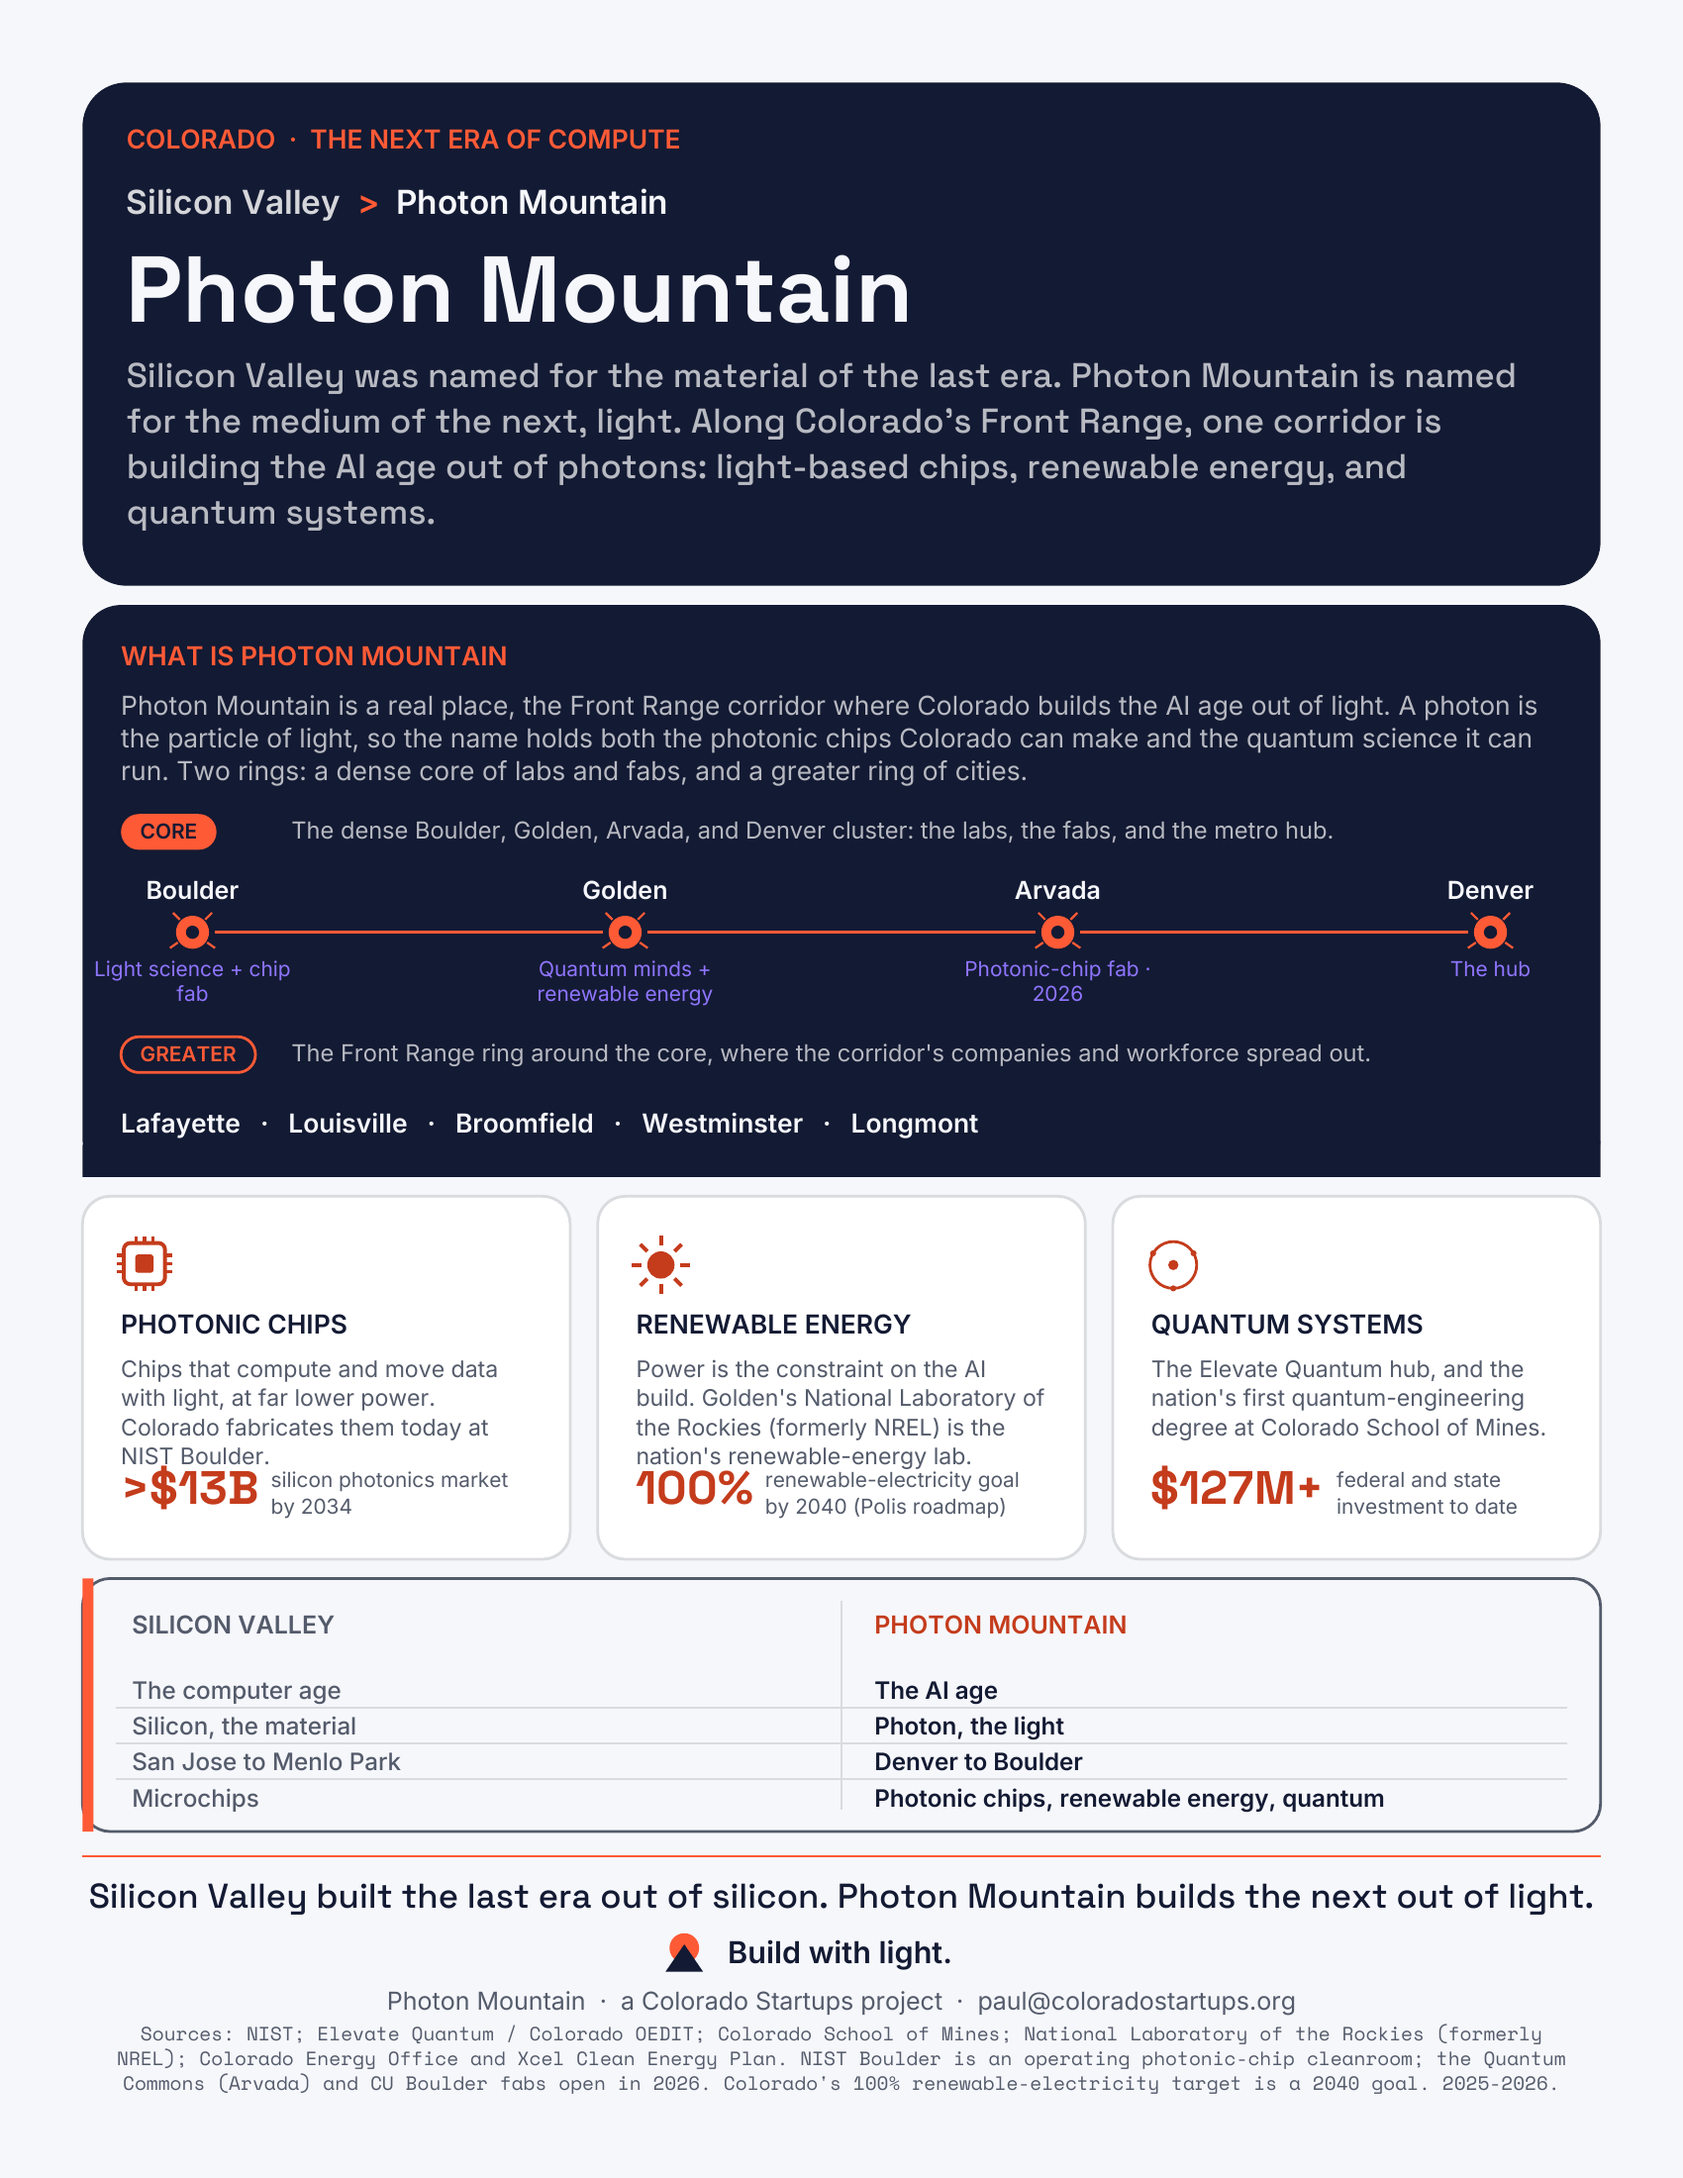
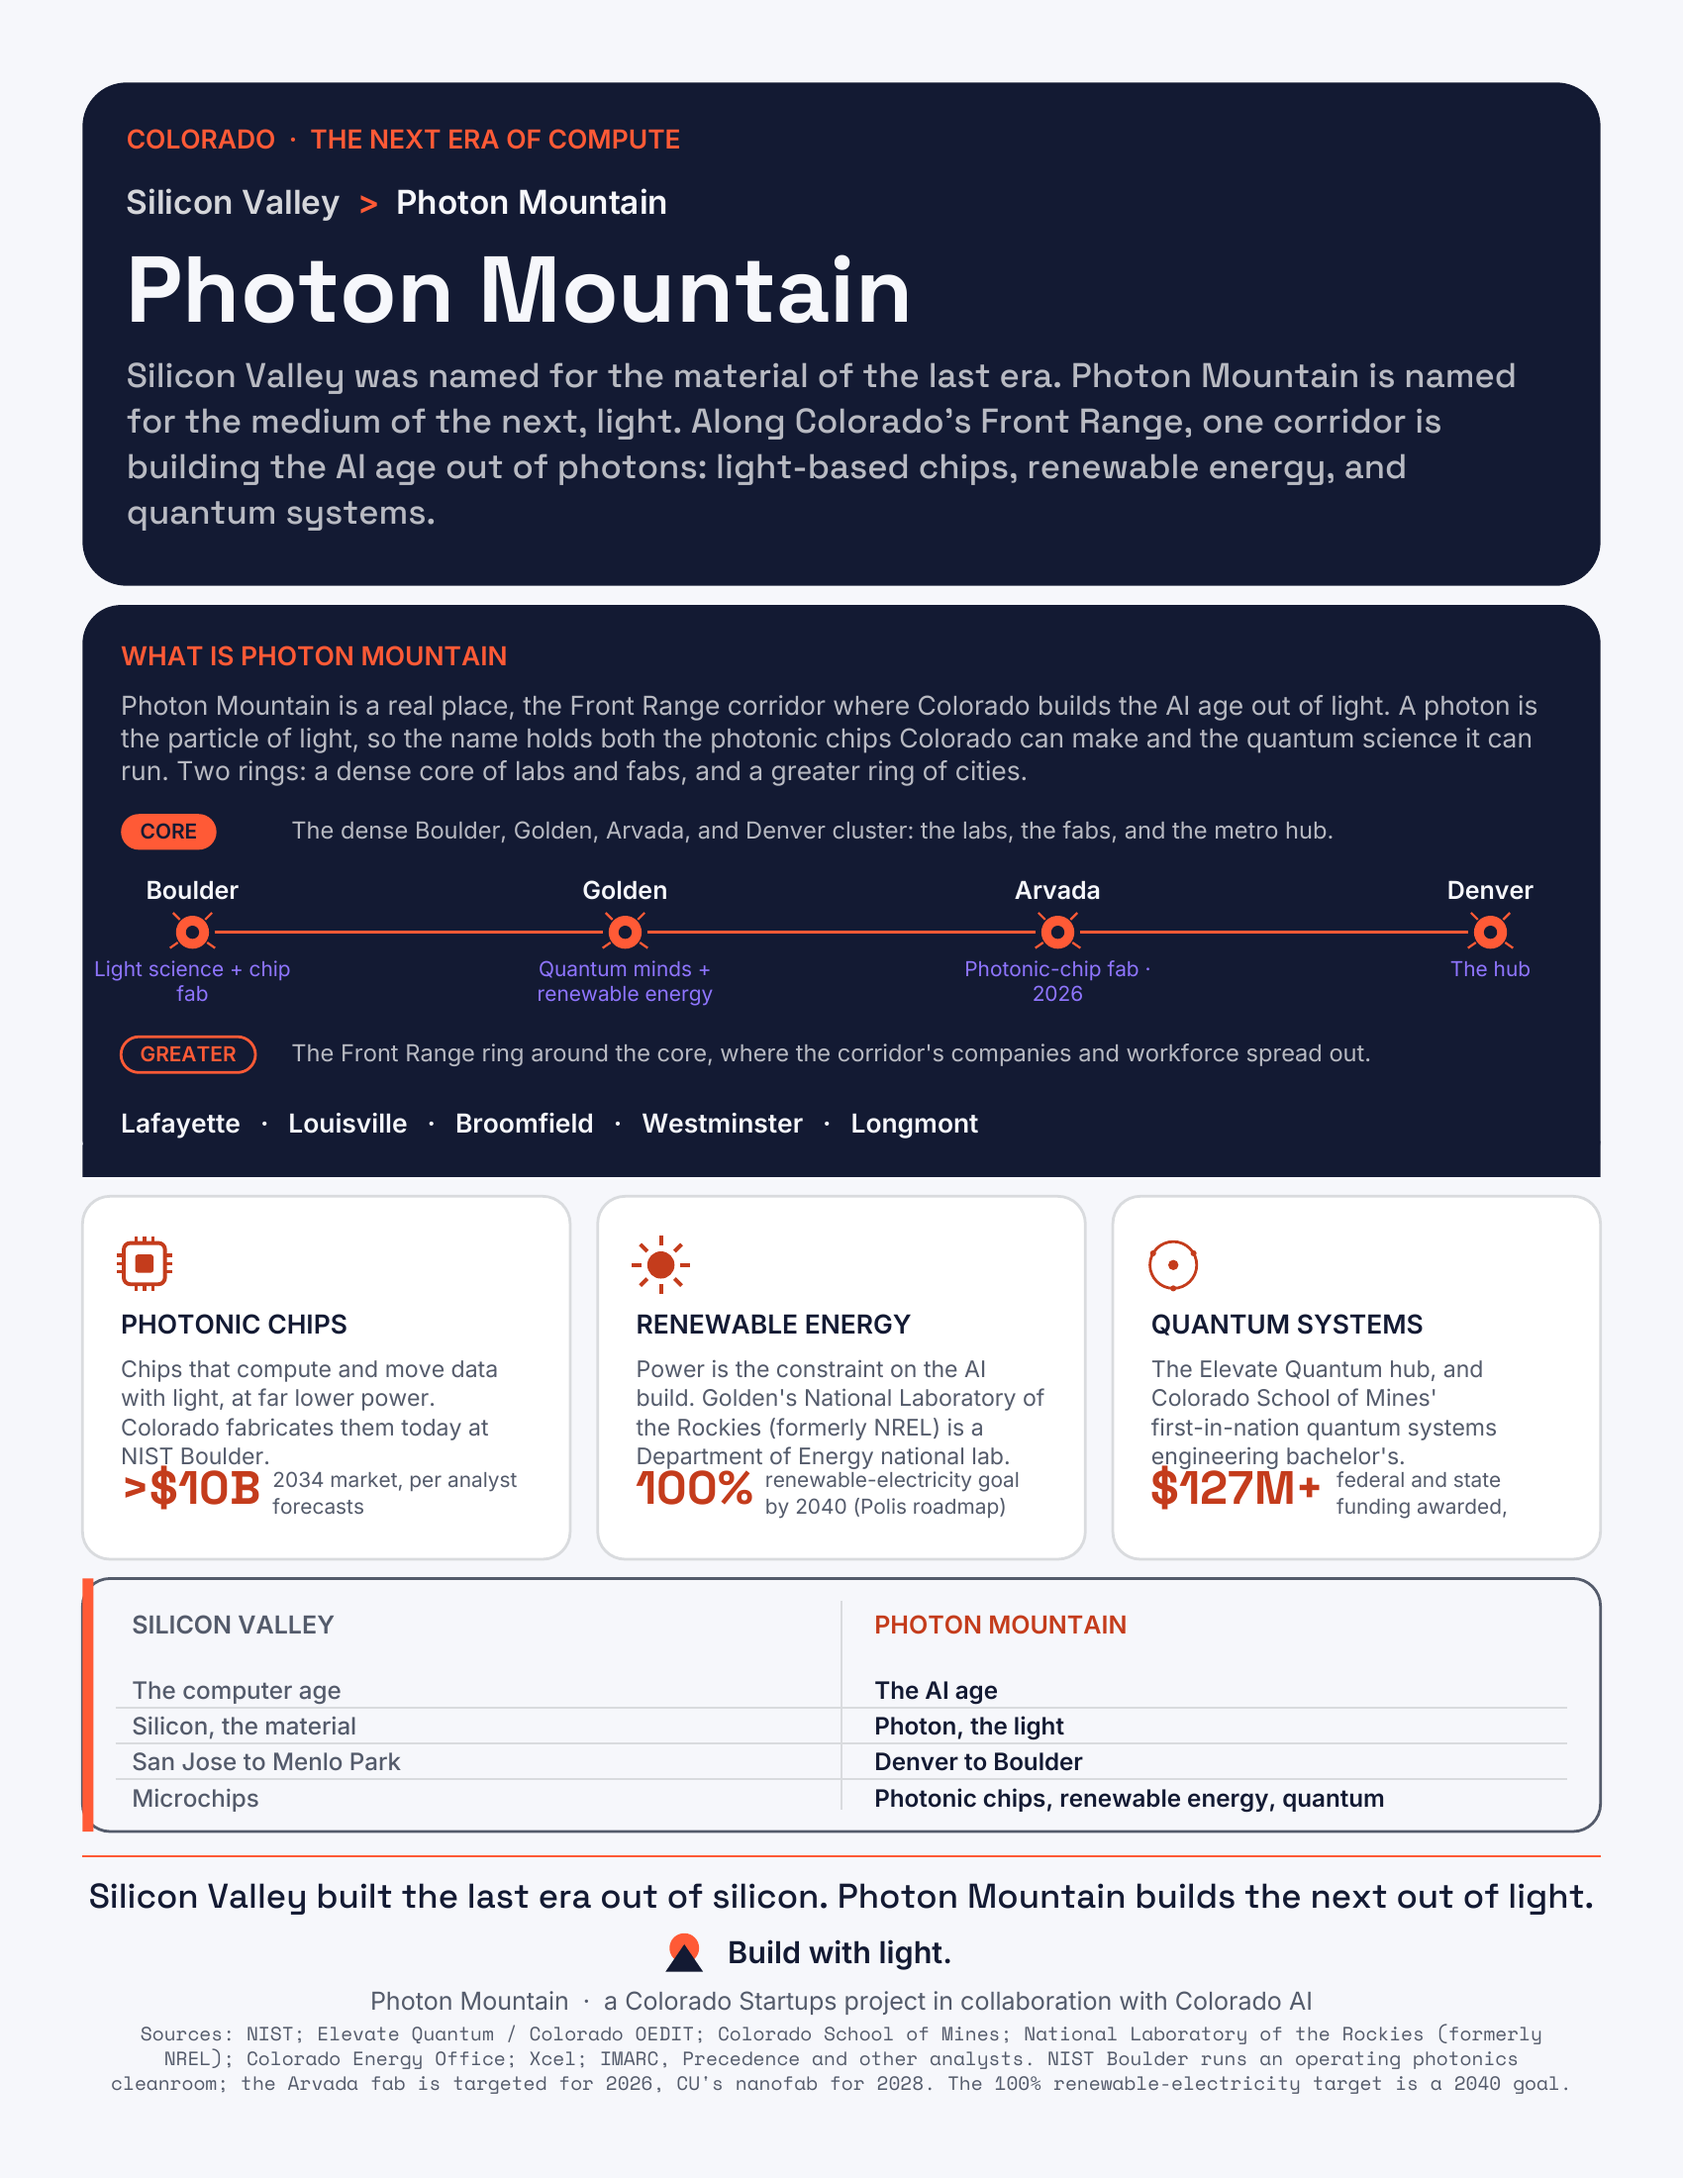
Re-render the launch infographic and the vision page in the cloud
render:infographic-png (run 43301756618): PAGES 1, brand_fonts= True,
OVERFLOW none. render:vision (run 43301262997): check: PASS, 53 sites.
Both built from this branch's fact-gated text.

diff --git a/03_deliverables/infographics/photon_mountain_vision.html b/03_deliverables/infographics/photon_mountain_vision.html
@@ -166,8 +166,8 @@
     <div class="figs">
       <div class="fig"><div class="v">53</div><div class="l">sites mapped in the corridor</div><div class="s">7 categories</div></div>
       <div class="fig"><div class="v">24.1</div><div class="l">miles across the core</div><div class="s">Boulder to Denver, measured</div></div>
-      <div class="fig"><div class="v">~250</div><div class="l">photonics companies statewide</div><div class="s">on the order of 250, per CPIA</div></div>
-      <div class="fig"><div class="v">~8,000</div><div class="l">photonics workers statewide</div><div class="s">roughly 8,000, per CPIA</div></div>
+      <div class="fig"><div class="v">250+</div><div class="l">photonics companies statewide</div><div class="s">over 250, per CPIA</div></div>
+      <div class="fig"><div class="v">8,000+</div><div class="l">photonics workers statewide</div><div class="s">over 8,000, per CPIA</div></div>
     </div>
   </section>
 
@@ -344,7 +344,7 @@
       <path d="M298,118 L298,50" stroke="#C43C1C" stroke-width="1.2" stroke-opacity="0.45"/>
       <circle cx="298" cy="118" r="5.5" fill="#C43C1C" stroke="#FFFFFF" stroke-width="2"/>
       <text class="ms" x="298" y="60" text-anchor="middle" fill="#C43C1C">$40.5M Tech Hubs award</text>
-      <text class="ms-sub" x="298" y="76" text-anchor="middle">per the EDA</text>
+      <text class="ms-sub" x="298" y="76" text-anchor="middle">per Elevate Quantum</text>
       <path d="M365,118 L365,224" stroke="#C43C1C" stroke-width="1.2" stroke-opacity="0.45"/>
       <circle cx="365" cy="118" r="5.5" fill="#C43C1C" stroke="#FFFFFF" stroke-width="2"/>
       <text class="ms" x="365" y="234" text-anchor="middle" fill="#C43C1C">Flatirons Control Center</text>
@@ -361,17 +361,17 @@
       <circle cx="518" cy="118" r="5.5" fill="#C43C1C" stroke="#FFFFFF" stroke-width="2"/>
       <text class="ms" x="518" y="60" text-anchor="middle" fill="#C43C1C">NREL becomes NLR</text>
       <text class="ms-sub" x="518" y="76" text-anchor="middle">per energy.gov</text>
-      <path d="M603,118 L603,224" stroke="#5636D6" stroke-width="1.2" stroke-opacity="0.45"/>
-      <circle cx="603" cy="118" r="5.5" fill="#5636D6" stroke="#FFFFFF" stroke-width="2"/>
-      <text class="ms" x="603" y="234" text-anchor="middle" fill="#5636D6">Phoenix laser</text>
+      <path d="M603,118 L603,224" stroke="#C43C1C" stroke-width="1.2" stroke-opacity="0.45"/>
+      <circle cx="603" cy="118" r="5.5" fill="#C43C1C" stroke="#FFFFFF" stroke-width="2"/>
+      <text class="ms" x="603" y="234" text-anchor="middle" fill="#C43C1C">Phoenix laser</text>
       <text class="ms-sub" x="603" y="250" text-anchor="middle">start announced by Xcimer</text>
       <path d="M683,118 L683,6" stroke="#5636D6" stroke-width="1.2" stroke-opacity="0.45"/>
       <circle cx="683" cy="118" r="5.5" fill="#5636D6" stroke="#FFFFFF" stroke-width="2"/>
-      <text class="ms" x="683" y="16" text-anchor="middle" fill="#5636D6">Photonic-IC fab, phase one</text>
-      <text class="ms-sub" x="683" y="32" text-anchor="middle">per Elevate Quantum</text>
+      <text class="ms" x="683" y="16" text-anchor="middle" fill="#5636D6">Photonic-IC fab target</text>
+      <text class="ms-sub" x="683" y="32" text-anchor="middle">per School of Mines</text>
       <path d="M786,118 L786,180" stroke="#545B6B" stroke-width="1.2" stroke-opacity="0.45"/>
       <circle cx="786" cy="118" r="5.5" fill="#545B6B" stroke="#FFFFFF" stroke-width="2"/>
-      <text class="ms" x="786" y="190" text-anchor="middle" fill="#545B6B">EMAPS completes</text>
+      <text class="ms" x="786" y="190" text-anchor="middle" fill="#545B6B">EMAPS expected</text>
       <text class="ms-sub" x="786" y="206" text-anchor="middle">$224M, NLR</text>
       <path d="M978,118 L978,50" stroke="#545B6B" stroke-width="1.2" stroke-opacity="0.45"/>
       <path d="M978,50 L914,50" stroke="#545B6B" stroke-width="1.2" stroke-opacity="0.45"/>
@@ -402,9 +402,9 @@
     <p class="kicker">Honesty guardrail</p>
     <p class="guard">Photonic compute is emerging, not shipping at scale. Boulder is the research anchor, not Denver.</p>
     <p class="src">
-      <b>Sources.</b> Core diameters measured by the project's geometry verifier. CPIA is the Colorado Photonics Industry Association; the company and workforce counts are its figures. Tech Hubs award per the EDA. Fab phase one per Elevate Quantum and the Denver Gazette, 2025-08-29. Lab renaming per energy.gov. Control Center per Mortenson. EMAPS per the design-build team's topping-out release. Nanofab award per CU Boulder. Corridor claims verified 2026-07-06; re-verify before external use.<br>
+      <b>Sources.</b> Core diameters measured by the project's geometry verifier. CPIA is the Colorado Photonics Industry Association; the company and workforce counts are its figures. Tech Hubs award per Elevate Quantum. Fab target per Colorado School of Mines, 2024; no opening announced as of 2026-11-12. Lab renaming per energy.gov. Control Center per Mortenson. EMAPS per the design-build team's topping-out release. Nanofab award per CU Boulder. Corridor claims re-verified 2026-11-12; re-verify before external use.<br>
       <b>Map data.</b> Boundary and marker coordinates derived from OpenStreetMap. &copy; OpenStreetMap contributors, ODbL 1.0. Boundary drawn simplified.<br>
-      <b>Status.</b> Internal draft. Nothing external-facing ships without Paul's sign-off.
+      <b>Status.</b> Published with the open repository, 2026-11-12. Re-verify any claim before you reuse it.
     </p>
   </section>
 
